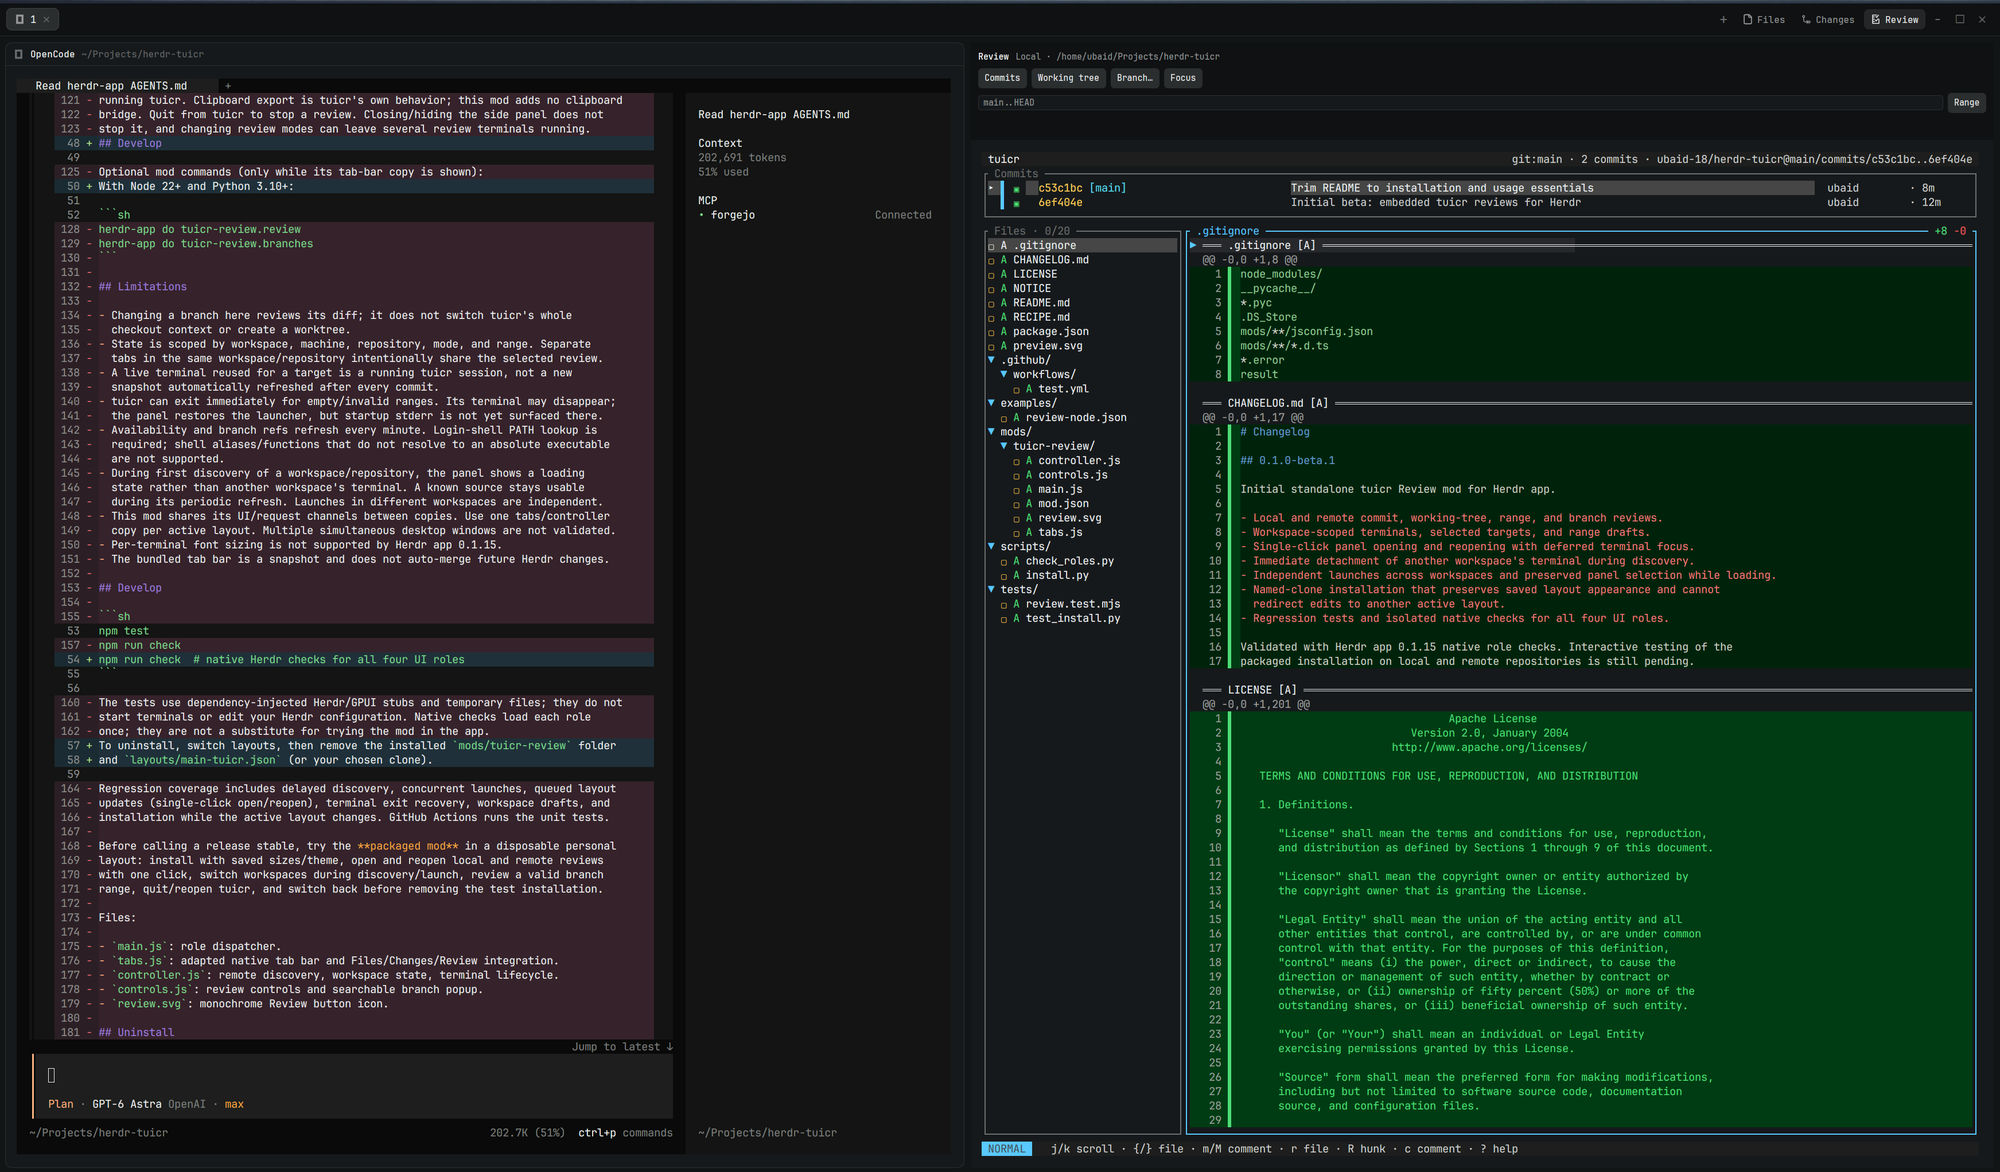
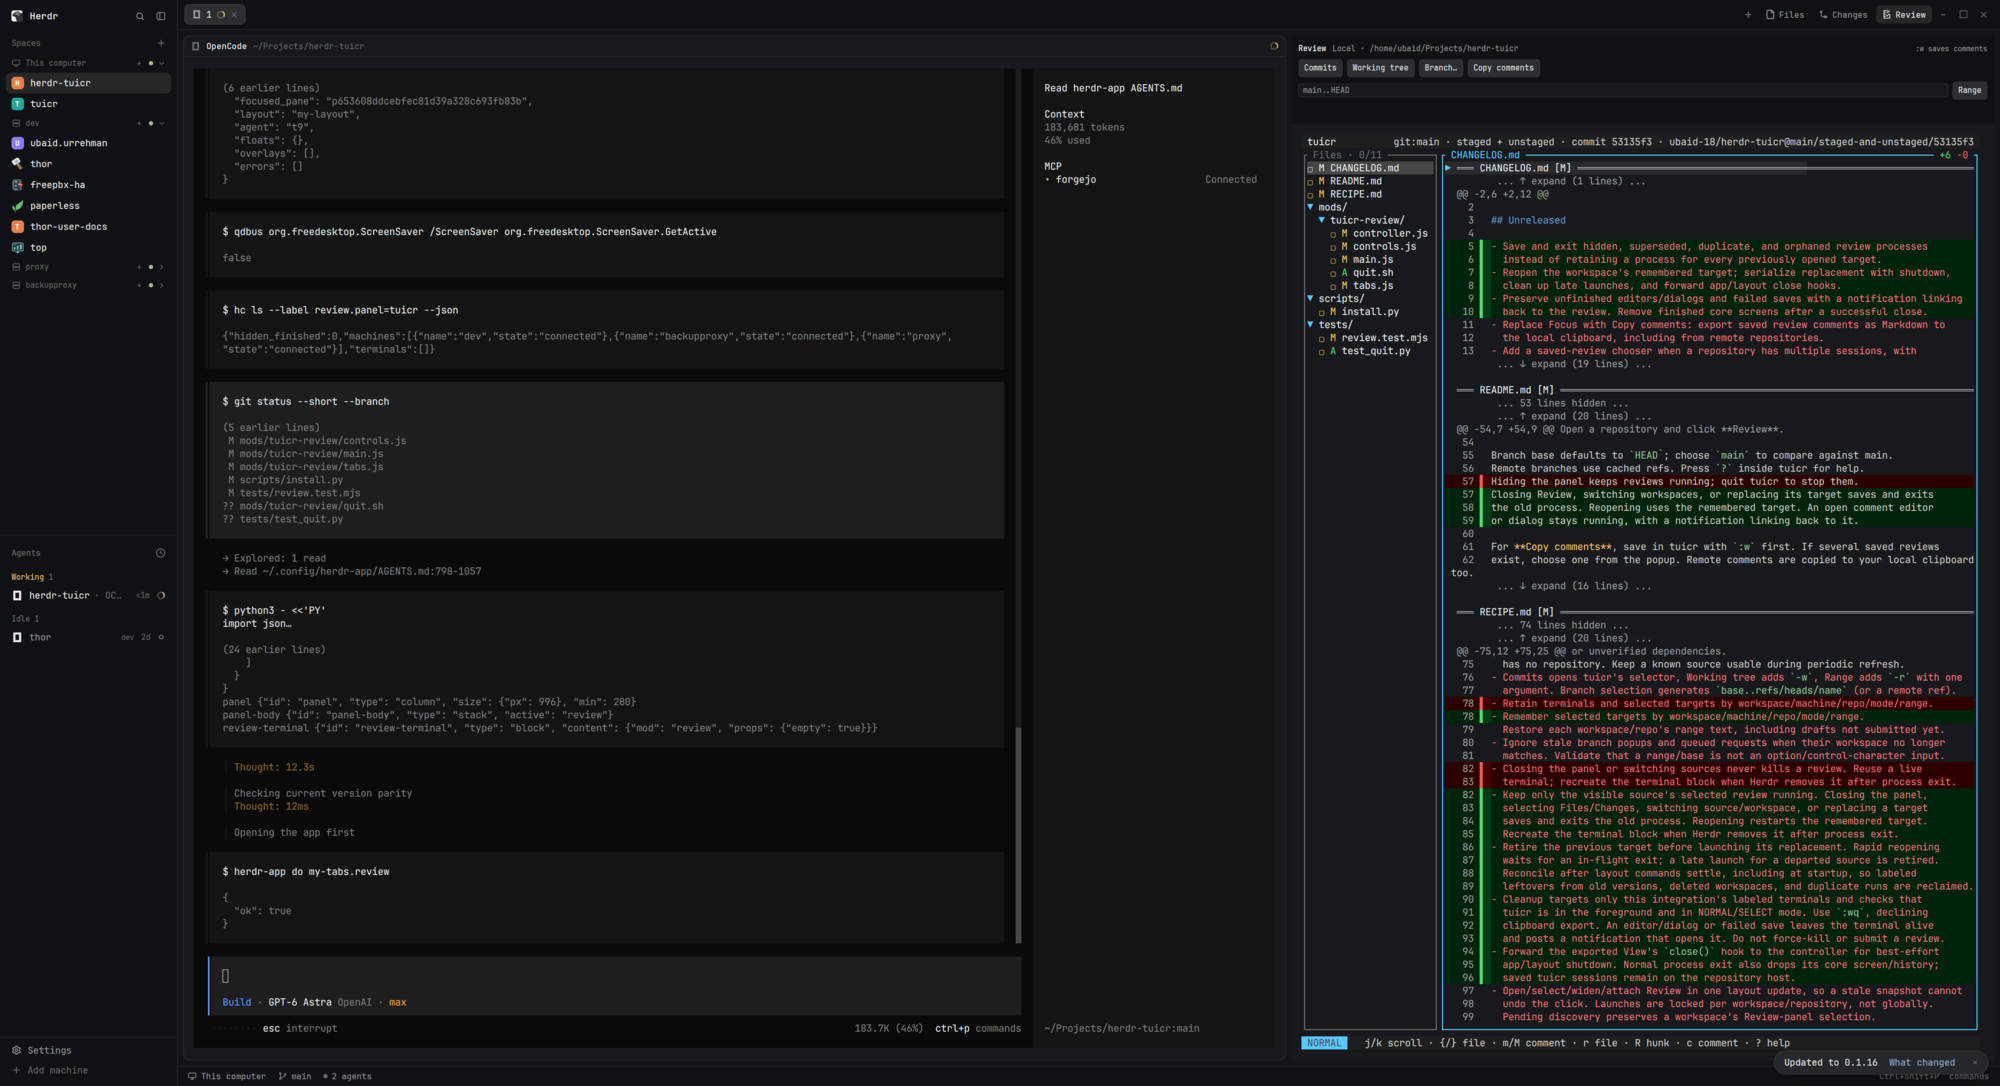
Refresh Review screenshots with Copy comments

diff --git a/README.md b/README.md
@@ -4,7 +4,7 @@ Review local and remote Git repositories with [tuicr](https://tuicr.dev) inside
 [Herdr](https://herdr.dev), right beside Files and Changes.
 
 <a href="preview-full.png" title="View the full screenshot">
-  <img src="preview.png" alt="tuicr Review controls, commit list, and diff in Herdr" width="800">
+  <img src="preview.png" alt="tuicr Review panel with Copy comments and a syntax-highlighted diff in Herdr" width="800">
 </a>
 
 *Beta — full interactive local/remote validation is still pending.*

diff --git a/RECIPE.md b/RECIPE.md
@@ -6,7 +6,7 @@ code and diffs. It follows the source workspace's repository and machine,
 remembers separate range drafts per workspace, and disappears where tuicr is
 unavailable.
 
-[![tuicr Review panel (cropped)](preview.png)](preview-full.png)
+[![tuicr Review panel with Copy comments (cropped)](preview.png)](preview-full.png)
 
 ## Before installing (for agents)
 
